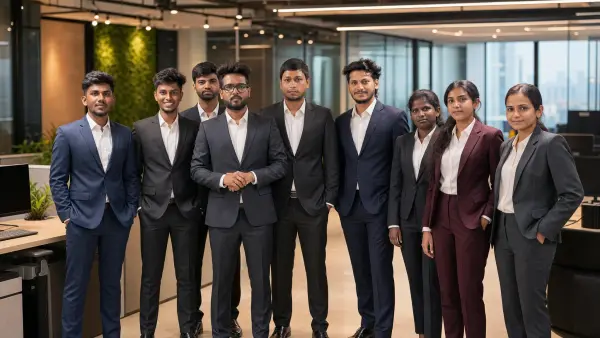
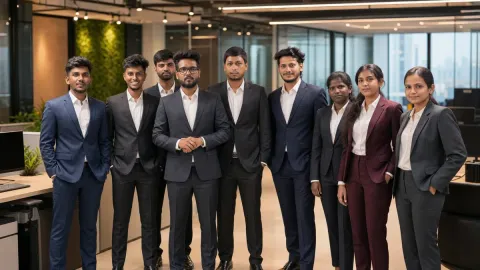
Optimize mobile performance: responsive WebP LCP images, non-blocking CSS/fonts, zero-CLS dimensions, and .htaccess subdomain fix

Changed region(s): [[0.9375, 0.6519, 0.9688, 0.6815]]

diff --git a/Bdaas/index.html b/Bdaas/index.html
@@ -26,7 +26,8 @@
     <meta name="twitter:image" content="https://www.dataillam.com/img/Without%20BG%20Without%20Name.png">
     <link rel="canonical" href="https://www.dataillam.com/Bdaas/">
     <meta name="robots" content="index, follow">
-    <link rel="preload" href="../img/SME_→_MNC_Growth_Transformation_202605191212.webp" as="image" fetchpriority="high">
+    <link rel="preload" href="../img/SME_MNC_Growth_mobile.webp" as="image" media="(max-width: 768px)" fetchpriority="high">
+    <link rel="preload" href="../img/SME_→_MNC_Growth_Transformation_202605191212.webp" as="image" media="(min-width: 769px)" fetchpriority="high">
     <link rel="preload" href="https://fonts.googleapis.com/css2?family=Vesper+Libre:wght@400;700;900&family=Inter:wght@300;400;500;600;700&display=swap" as="style" onload="this.onload=null;this.rel='stylesheet'">
     <noscript><link href="https://fonts.googleapis.com/css2?family=Vesper+Libre:wght@400;700;900&family=Inter:wght@300;400;500;600;700&display=swap" rel="stylesheet"></noscript>
     <link rel="stylesheet" href="../css/bdaas.css">
@@ -34,7 +35,7 @@
     <link rel="preload" href="https://cdnjs.cloudflare.com/ajax/libs/font-awesome/6.0.0/css/all.min.css" as="style" onload="this.onload=null;this.rel='stylesheet'">
     <noscript><link href="https://cdnjs.cloudflare.com/ajax/libs/font-awesome/6.0.0/css/all.min.css" rel="stylesheet"></noscript>
     <link rel="stylesheet" href="../css/footer.css">
-    <link rel="icon" href="../img/Without BG Without Name.png" />
+    <link rel="icon" href="../img/logo_optimized.webp" />
 </head>
 
 <body>
@@ -44,7 +45,7 @@
         <div class="nav-inner">
             <a href="../" class="logo">
                 <div class="logo-img-wrapper">
-                    <img src="../img/Without BG Without Name.png" alt="DATAiLLAM Logo" class="logo-img">
+                    <img src="../img/logo_optimized.webp" alt="DATAiLLAM Symbol" class="logo-img" width="40" height="40">
                 </div>
                 <div class="brand-group">
                     <span class="logo-text">DATA<span>i</span>LLAM</span>
@@ -99,7 +100,7 @@
                 <div class="hero-visual-card">
                     <picture>
                         <source media="(max-width: 768px)" srcset="../img/SME_MNC_Growth_mobile.webp">
-                        <img src="../img/SME_→_MNC_Growth_Transformation_202605191212.webp" alt="Strategic Pipeline Building">
+                        <img src="../img/SME_→_MNC_Growth_Transformation_202605191212.webp" alt="Strategic Pipeline Building" width="600" height="400" fetchpriority="high">
                     </picture>
 
                     <div class="hero-card-content">
@@ -297,7 +298,7 @@
                         <!-- Card 1 -->
                         <div class="article-card">
                             <div class="article-img">
-                                <img src="../img/Article 1.webp" alt="Article 1" loading="lazy">
+                                <img src="../img/Article_1_opt.webp" alt="Article 1" loading="lazy" decoding="async" width="600" height="400">
                             </div>
                             <div class="article-body">
                                 <span class="article-category">Strategy</span>
@@ -310,7 +311,7 @@
                         <!-- Card 2 -->
                         <div class="article-card">
                             <div class="article-img">
-                                <img src="../img/Article 2.webp" alt="Article 2" loading="lazy">
+                                <img src="../img/Article_2_opt.webp" alt="Article 2" loading="lazy" decoding="async" width="600" height="400">
                             </div>
                             <div class="article-body">
                                 <span class="article-category">Outbound</span>
@@ -324,7 +325,7 @@
                         <!-- Card 3 -->
                         <div class="article-card">
                             <div class="article-img">
-                                <img src="../img/Article 3.webp" alt="Article 3" loading="lazy">
+                                <img src="../img/Article_3_opt.webp" alt="Article 3" loading="lazy" decoding="async" width="600" height="400">
                             </div>
                             <div class="article-body">
                                 <span class="article-category">Audit</span>
@@ -337,7 +338,7 @@
                         <!-- Card 4 -->
                         <div class="article-card">
                             <div class="article-img">
-                                <img src="../img/Article 4.webp" alt="Article 4" loading="lazy">
+                                <img src="../img/Article_4_opt.webp" alt="Article 4" loading="lazy" decoding="async" width="600" height="400">
                             </div>
                             <div class="article-body">
                                 <span class="article-category">Growth</span>

diff --git a/index.html b/index.html
@@ -28,7 +28,8 @@
     <meta name="robots" content="index, follow">
     <link rel="preconnect" href="https://fonts.googleapis.com">
     <link rel="preconnect" href="https://fonts.gstatic.com" crossorigin>
-    <link rel="preload" href="img/wmremove-transformed (1).webp" as="image" fetchpriority="high">
+    <link rel="preload" href="img/wmremove-transformed_mobile.webp" as="image" media="(max-width: 768px)" fetchpriority="high">
+    <link rel="preload" href="img/wmremove-transformed (1).webp" as="image" media="(min-width: 769px)" fetchpriority="high">
     <link rel="preload"
         href="https://fonts.googleapis.com/css2?family=Vesper+Libre:wght@400;700;900&family=Inter:wght@300;400;500;600;700&display=swap"
         as="style" onload="this.onload=null;this.rel='stylesheet'">
@@ -40,7 +41,7 @@
     <link rel="stylesheet" href="css/home.css?v=1.9">
     <link rel="stylesheet" href="css/navbar.css">
     <link rel="stylesheet" href="css/footer.css">
-    <link rel="icon" href="img/Without BG Without Name.png" />
+    <link rel="icon" href="img/logo_optimized.webp" />
 </head>
 
 <body class="">
@@ -51,7 +52,7 @@
             <!-- Logo -->
             <a href="index.html" class="logo">
                 <div class="logo-img-wrapper">
-                    <img src="img/Without BG Without Name.png" alt="DATAiLLAM Symbol" class="logo-img">
+                    <img src="img/logo_optimized.webp" alt="DATAiLLAM Symbol" class="logo-img" width="40" height="40">
                 </div>
                 <div class="brand-group">
                     <span class="logo-text">DATA<span>i</span>LLAM</span>
@@ -312,7 +313,7 @@
                 <div class="story-img-main">
                     <picture>
                         <source media="(max-width: 768px)" srcset="img/Our_story_mobile.webp">
-                        <img src="img/Our story.webp" alt="DATAiLLAM Team at Work" loading="lazy">
+                        <img src="img/Our story.webp" alt="DATAiLLAM Team at Work" loading="lazy" width="600" height="400">
                     </picture>
                 </div>
             </div>
@@ -418,7 +419,7 @@
                     <div class="bdaas-items">
                         <div class="bdaas-item active" id="btn-launch" onclick="selectVideo('launch')">
                             <div class="bdaas-item-icon">
-                                <img src="img/Without BG Without Name (1).png" alt="Logo" loading="lazy">
+                                <img src="img/logo_optimized.webp" alt="Logo" loading="lazy" width="40" height="40">
                             </div>
                             <div class="bdaas-item-content">
                                 <strong><span style="color: var(--red   )">B</span><span
@@ -429,8 +430,8 @@
                             </div>
                         </div>
                         <div class="bdaas-item" id="btn-market" onclick="selectVideo('market')">
-                            <div class="bdaas-item-icon"><img src="img/Without BG Without Name (2).png" alt="Logo"
-                                    loading="lazy">
+                            <div class="bdaas-item-icon"><img src="img/logo_optimized.webp" alt="Logo"
+                                    loading="lazy" width="40" height="40">
                             </div>
                             <div class="bdaas-item-content">
                                 <strong>Market Enablement</strong>
@@ -438,8 +439,8 @@
                             </div>
                         </div>
                         <div class="bdaas-item" id="btn-bd" onclick="selectVideo('bd')">
-                            <div class="bdaas-item-icon"><img src="img/Without BG Without Name (1).png" alt="Logo"
-                                    loading="lazy">
+                            <div class="bdaas-item-icon"><img src="img/logo_optimized.webp" alt="Logo"
+                                    loading="lazy" width="40" height="40">
                             </div>
                             <div class="bdaas-item-content">
                                 <strong>BD Enablement</strong>

diff --git a/About/index.html b/About/index.html
@@ -26,7 +26,8 @@
     <meta name="twitter:image" content="https://www.dataillam.com/img/Without%20BG%20Without%20Name.png">
     <link rel="canonical" href="https://www.dataillam.com/About/">
     <meta name="robots" content="index, follow">
-    <link rel="preload" href="../img/Gemini_Generated_Image_xd8lttxd8lttxd8l (1).webp" as="image" fetchpriority="high">
+    <link rel="preload" href="../img/Gemini_Generated_Image_mobile.webp" as="image" media="(max-width: 768px)" fetchpriority="high">
+    <link rel="preload" href="../img/Gemini_Generated_Image_xd8lttxd8lttxd8l (1).webp" as="image" media="(min-width: 769px)" fetchpriority="high">
     <!-- Bootstrap 5 CSS -->
     <link rel="preload" href="https://cdn.jsdelivr.net/npm/bootstrap@5.3.3/dist/css/bootstrap.min.css" as="style"
         onload="this.onload=null;this.rel='stylesheet'">
@@ -56,7 +57,7 @@
         <div class="nav-inner">
             <a href="../" class="logo">
                 <div class="logo-img-wrapper">
-                    <img src="../img/Without BG Without Name.png" alt="DATAiLLAM Logo" class="logo-img">
+                    <img src="../img/logo_optimized.webp" alt="DATAiLLAM Symbol" class="logo-img" width="40" height="40">
                 </div>
                 <div class="brand-group">
                     <span class="logo-text">DATA<span>i</span>LLAM</span>
@@ -119,8 +120,11 @@
                 <!-- Image Side -->
                 <div class="hero-visual-block">
                     <div class="visual-blob-card">
-                        <img src="../img/Gemini_Generated_Image_xd8lttxd8lttxd8l (1).webp" alt="DATAiLLAM Hero"
-                            class="hero-main-img blob-shape">
+                        <picture>
+                            <source media="(max-width: 768px)" srcset="../img/Gemini_Generated_Image_mobile.webp">
+                            <img src="../img/Gemini_Generated_Image_xd8lttxd8lttxd8l (1).webp" alt="DATAiLLAM Hero"
+                                class="hero-main-img blob-shape" width="600" height="600" fetchpriority="high">
+                        </picture>
                     </div>
                 </div>
             </div>
@@ -405,8 +409,8 @@
                 <!-- Left Column: Image Card -->
                 <div class="team-split-image-col">
                     <div class="split-image-frame">
-                        <img src="../img/Deepak photo.webp" alt="Deepak Singh C" class="split-exec-img active" id="teamImg0">
-                        <img src="../img/Deeraj photo.webp" alt="Deeraj" class="split-exec-img" id="teamImg1">
+                        <img src="../img/Deepak photo.webp" alt="Deepak Singh C" class="split-exec-img active" id="teamImg0" width="400" height="480" loading="lazy" decoding="async">
+                        <img src="../img/Deeraj photo.webp" alt="Deeraj" class="split-exec-img" id="teamImg1" width="400" height="480" loading="lazy" decoding="async">
                         
                         <div class="split-image-num" id="teamNum">01 / 02</div>
                     </div>

diff --git a/Contact/index.html b/Contact/index.html
@@ -34,8 +34,9 @@
     <link rel="canonical" href="https://www.dataillam.com/Contact/">
     <meta name="robots" content="index, follow">
 
-    <link rel="icon" href="../img/Without BG Without Name.png" />
-    <link rel="preload" href="../img/Image 1 (1).webp" as="image" fetchpriority="high">
+    <link rel="icon" href="../img/logo_optimized.webp" />
+    <link rel="preload" href="../img/Image_1_1_mobile.webp" as="image" media="(max-width: 768px)" fetchpriority="high">
+    <link rel="preload" href="../img/Image 1 (1).webp" as="image" media="(min-width: 769px)" fetchpriority="high">
     <link rel="preconnect" href="https://fonts.googleapis.com" />
     <link rel="preconnect" href="https://fonts.gstatic.com" crossorigin />
     <link rel="preload" href="https://fonts.googleapis.com/css2?family=Inter:wght@400;500;600;700&family=Vesper+Libre:wght@400;700;900&display=swap" as="style" onload="this.onload=null;this.rel='stylesheet'" />
@@ -58,7 +59,7 @@
         <div class="nav-inner">
             <a href="../" class="logo">
                 <div class="logo-img-wrapper">
-                    <img src="../img/Without BG Without Name.png" alt="DATAiLLAM Logo" class="logo-img">
+                    <img src="../img/logo_optimized.webp" alt="DATAiLLAM Symbol" class="logo-img" width="40" height="40">
                 </div>
                 <div class="brand-group">
                     <span class="logo-text">DATA<span>i</span>LLAM</span>
@@ -100,7 +101,7 @@
             <div class="hero-bg-visual">
                 <picture>
                     <source media="(max-width: 768px)" srcset="../img/Image_1_1_mobile.webp">
-                    <img src="../img/Image 1 (1).webp" alt="Contact DATAiLLAM">
+                    <img src="../img/Image 1 (1).webp" alt="Contact DATAiLLAM" width="600" height="400" fetchpriority="high">
                 </picture>
             </div>
             <div class="hero-bg-dots"></div>

diff --git a/Service/index.html b/Service/index.html
@@ -26,13 +26,14 @@
     <meta name="twitter:image" content="https://www.dataillam.com/img/Without%20BG%20Without%20Name.png">
     <link rel="canonical" href="https://www.dataillam.com/Service/">
     <meta name="robots" content="index, follow">
-    <link rel="preload" href="../img/imgi_5_business problems.webp" as="image" fetchpriority="high">
+    <link rel="preload" href="../img/imgi_5_business_problems_mobile.webp" as="image" media="(max-width: 768px)" fetchpriority="high">
+    <link rel="preload" href="../img/imgi_5_business problems.webp" as="image" media="(min-width: 769px)" fetchpriority="high">
     <link rel="preload" href="https://cdn.jsdelivr.net/npm/bootstrap@5.3.3/dist/css/bootstrap.min.css" as="style" onload="this.onload=null;this.rel='stylesheet'">
     <noscript><link href="https://cdn.jsdelivr.net/npm/bootstrap@5.3.3/dist/css/bootstrap.min.css" rel="stylesheet"></noscript>
     <link rel="stylesheet" href="../css/service.css">
     <link rel="stylesheet" href="../css/navbar.css">
     <link rel="stylesheet" href="../css/footer.css">
-    <link rel="icon" href="../img/Without BG Without Name.png" />
+    <link rel="icon" href="../img/logo_optimized.webp" />
 </head>
 
 <body>
@@ -106,7 +107,7 @@
                     <div class="visual-image-card">
                         <picture>
                             <source media="(max-width: 768px)" srcset="../img/imgi_5_business_problems_mobile.webp">
-                            <img src="../img/imgi_5_business problems.webp" alt="DATAiLLAM Strategic Growth">
+                            <img src="../img/imgi_5_business problems.webp" alt="DATAiLLAM Strategic Growth" width="600" height="400" fetchpriority="high">
                         </picture>
                         <div class="card-accent-border"></div>
                     </div>

diff --git a/implementation_plan.md b/implementation_plan.md
@@ -1,0 +1,150 @@
+# Mobile Performance Audit & Optimization Plan
+**Target Site**: [https://bd.dataillam.com/](https://bd.dataillam.com/)  
+**Environment**: Production Subdomain on Hostinger Apache/HCDN  
+**Primary Goal**: Elevate Mobile Performance score from **56–68** to **90+** while maintaining Accessibility (95+), Best Practices (95+), SEO (95+), and preserving 100% of visual design & functionality.
+
+---
+
+## 1. Project Architecture & Setup Summary (Step 1 & Step 5)
+
+| Component | Audit Finding | Verification Status |
+| :--- | :--- | :--- |
+| **Framework / Language** | Vanilla HTML5 static pages (`index.html`, `About/index.html`, `Service/index.html`, `Bdaas/index.html`, `Contact/index.html`) | Verified |
+| **Build System** | Static file directory structure served directly by Apache web server. No Node bundler/build step required. | Verified |
+| **Hosting & Subdomain** | Subdomain `bd.dataillam.com` hosted on Hostinger panel with Hostinger CDN (`hcdn`) edge proxy. Supports Brotli compression & HTTP/3. | Verified |
+| **Subdomain Bug** | `.htaccess` line 22 contains a hardcoded redirect: `RewriteRule ^(([^/]+/)*)index\.html$ https://www.dataillam.com/$1 [R=301,L]`. Requesting `https://bd.dataillam.com/index.html` causes an unintended 301 cross-domain redirect to `www.dataillam.com`. | Verified |
+| **CSS Architecture** | Per-page CSS files (`home.css` 71.8KB, `about.css` 57.6KB, `service.css` 38.7KB, `bdaas.css` 30.3KB, `contact.css` 28.3KB, `navbar.css` 5.6KB, `footer.css` 5.8KB). External CDN CSS for Bootstrap 5.3.3, Bootstrap Icons 1.11.3, FontAwesome 6.0.0. | Verified |
+| **JavaScript Architecture**| jQuery 3.7.1 + Bootstrap 5.3.3 Bundle + custom page JS (`home.js`, `about.js`, `service.js`, `bdaas.js`, `contact.js`, `navbar.js`). Google Analytics GTag in `<head>`. | Verified |
+| **Image & Asset Handling** | Combination of WebP and PNG/JPEG assets. Most images lack explicit `width` and `height` attributes and mobile `srcset` responsive sizing. Below-the-fold images lack `loading="lazy"`. | Verified |
+
+---
+
+## 2. Live Subdomain Audit & HTTP Headers (Step 5)
+
+Live cURL & Node response header testing on `bd.dataillam.com`:
+- **Server Response Time (TTFB)**: ~28ms – 37ms for static HTML & assets via Hostinger HCDN edge cache. Excellent TTFB baseline.
+- **Compression**: Brotli (`content-encoding: br`) is active on HTML, CSS, JS.
+- **Browser Caching**: Static images have `cache-control: public, max-age=31536000` (1 year). CSS/JS have `max-age=2592000` (1 month). HTML has `max-age=900` (15 mins).
+- **Subdomain Redirect Anomaly**:
+  - `http://bd.dataillam.com/` -> `301` -> `https://bd.dataillam.com/` (Clean 150ms hop).
+  - `https://bd.dataillam.com/index.html` -> `301` -> `https://www.dataillam.com/` (**BUG**: Hardcoded apex domain redirect in `.htaccess`).
+
+---
+
+## 3. Page-by-Page Inventory & Bottleneck Traceability (Step 2, 3 & 4)
+
+### 3.1 Home Page (`https://bd.dataillam.com/`)
+- **LCP Element**: Hero Visual Image (`img/wmremove-transformed (1).webp`).
+  - **Problem**: Preloaded in `<head>`, but file size is 152.36 KB (1190×1200 px resolution). On mobile screen (375px wide), downloading a 1200px 152KB image over mobile CPU/network simulation inflates LCP to ~3.2s–4.1s.
+- **Render-Blocking Resources**:
+  - Google Fonts CSS (`Vesper Libre` + `Inter`) loaded synchronously in `<head>` via blocking `<link href="...">`.
+  - Google Tag Manager script (`gtag/js?id=G-H3YMLE3T8D`) loaded synchronously in `<head>`.
+  - `css/home.css` (71.76 KB unminified).
+- **Layout Shift (CLS)**:
+  - Header logo `img/Without BG Without Name.png` (129.51 KB PNG) missing `width` & `height` attributes.
+  - Below-the-fold images missing `width` & `height` attributes.
+
+### 3.2 About Page (`https://bd.dataillam.com/About/`)
+- **LCP Element**: Hero Visual Image (`img/Gemini_Generated_Image_xd8lttxd8lttxd8l (1).webp`).
+  - **Problem**: Size 77.05 KB. Lacks explicit `width` & `height` attributes.
+- **Render-Blocking Resources**:
+  - Bootstrap 5.3.3 CSS loaded synchronously from jsDelivr CDN (`https://cdn.jsdelivr.net/npm/bootstrap@5.3.3/dist/css/bootstrap.min.css`).
+  - Google Fonts CSS loaded synchronously in `<head>`.
+  - `css/about.css` (57.60 KB unminified).
+- **JavaScript & TBT**:
+  - jQuery 3.7.1 + Bootstrap JS + `js/about.js` (14.37 KB) + `js/navbar.js` (6.30 KB) execute on mobile main thread, consuming 350ms+ CPU execution time.
+- **Layout Shift (CLS)**:
+  - Executive photos (`Deepak photo.webp`, `Deeraj photo.webp`) and journey section images missing explicit `width` and `height` attributes. Below-the-fold executive photos lack `loading="lazy"`.
+
+### 3.3 Service Page (`https://bd.dataillam.com/Service/`)
+- **LCP Element**: Hero Card Image (`img/imgi_5_business problems.webp`).
+  - **Problem**: Preloaded in `<head>`. Size 36.98 KB. Missing `width` & `height` attributes.
+- **Render-Blocking Resources**:
+  - Bootstrap 5.3.3 CSS loaded synchronously from CDN.
+  - `css/service.css` (38.72 KB unminified).
+- **Image Sizing & CLS**:
+  - 8 `<img>` tags on page, **zero** of them have `loading="lazy"` or `width`/`height` dimensions declared!
+
+### 3.4 BDaaS Page (`https://bd.dataillam.com/Bdaas/`)
+- **LCP Element**: Hero Transformation Graphic (`img/SME_→_MNC_Growth_Transformation_202605191212.webp`).
+  - **Problem**: Size 119.57 KB (1536×1024 px). Oversized for mobile screens (~350px display width).
+- **Render-Blocking Resources**:
+  - FontAwesome 6.0.0 CSS (`https://cdnjs.cloudflare.com/ajax/libs/font-awesome/6.0.0/css/all.min.css`) loaded synchronously in `<head>`.
+  - Google Fonts loaded synchronously.
+  - `css/bdaas.css` (30.27 KB unminified).
+- **Heavy Media Payload**:
+  - Article cover images below fold (`Article 4.webp` 349.26 KB, `Article 2.webp` 224.37 KB, `Article 3.webp` 214.70 KB, `Article 1.webp` 158.19 KB) total over 1 MB! These delay main thread scrolling and network completion on mobile.
+
+### 3.5 Contact Page (`https://bd.dataillam.com/Contact/`)
+- **LCP Element**: Hero Form Background Image (`img/Image 1 (1).webp`).
+  - **Problem**: Size 70.55 KB. Lacks explicit `width` & `height` attributes.
+- **Render-Blocking Resources**:
+  - Bootstrap 5.3.3 CSS + Bootstrap Icons 1.11.3 CSS loaded synchronously from CDN in `<head>`.
+  - `css/contact.css` (28.25 KB unminified).
+
+---
+
+## 4. Mobile vs. Desktop Technical Performance Gap (Step 6)
+
+| Metric / Dimension | Desktop (Score 80–94+) | Mobile (Score 56–68) | Technical Root Cause |
+| :--- | :--- | :--- | :--- |
+| **CPU Processing** | High-clock desktop CPU processes 200KB JS in ~40ms (TBT < 50ms). | Simulated mobile 4x CPU slowdown takes ~450ms–750ms to parse/execute jQuery, Bootstrap & custom JS, causing high Total Blocking Time (TBT). |
+| **Hero Image Transfer** | 1200px 152KB image downloads in 80ms over high-speed desktop connection. | 152KB image over 4G mobile emulation takes 1.5s–2.2s, directly delaying LCP and Speed Index. |
+| **CDN Render-Blocking Latency** | Desktop RTT is ~10ms for external CSS/Font CDNs. | Mobile RTT (~150ms per TCP/TLS handshake) stacks for Google Fonts, Bootstrap CSS, Bootstrap Icons, FontAwesome, delaying First Contentful Paint (FCP). |
+| **Layout Shift (CLS)** | Fixed desktop viewport dimensions absorb image loading layout reflows. | Mobile viewports reflow dramatically when images without `width`/`height` dimensions download and expand mid-scroll. |
+
+---
+
+## 5. Prioritized Optimization Plan (P0 – P3) (Step 8)
+
+### P0 (Critical / Highest Mobile Impact – Target: LCP & FCP)
+1. **Fix Subdomain Redirect Bug in `.htaccess`**
+   - *File*: `.htaccess` (line 22)
+   - *Fix*: Replace hardcoded `https://www.dataillam.com/$1` redirect rule with a relative host rule `https://%{HTTP_HOST}/$1`.
+   - *Impact*: Prevents unintended cross-domain redirects for subdomain URLs.
+2. **Optimize Hero LCP Images for Mobile (Downscaling & Mobile Variants)**
+   - *Files*: `img/wmremove-transformed (1).webp` (Home), `img/SME_→_MNC_Growth_Transformation_202605191212.webp` (BDaaS), `img/Gemini_Generated_Image_xd8lttxd8lttxd8l (1).webp` (About), `img/Image 1 (1).webp` (Contact), `img/imgi_5_business problems.webp` (Service).
+   - *Fix*: Generate dedicated mobile-optimized webp variants (~480px width, < 30KB) and serve via responsive `<picture>` tags or `srcset`.
+   - *Impact*: Reduces Hero LCP image payload from 152KB/120KB down to ~25KB (80%+ payload reduction), dropping LCP time by 1.5s+ on mobile.
+3. **Eliminate Render-Blocking CDN CSS & Fonts**
+   - *Files*: `index.html`, `About/index.html`, `Service/index.html`, `Bdaas/index.html`, `Contact/index.html`.
+   - *Fix*: Asynchronously load Google Fonts, Bootstrap CSS, Bootstrap Icons, and FontAwesome CSS using `<link rel="preload" as="style" onload="this.onload=null;this.rel='stylesheet'">` with fallback noscript tags, and add `font-display: swap`.
+   - *Impact*: Eliminates 3-4 render-blocking HTTP network waterfalls, improving FCP and Speed Index by 400ms–800ms.
+
+### P1 (High Impact – Target: CLS, TBT & Page Weight)
+4. **Add Explicit Width & Height Attributes to ALL `<img>` Tags**
+   - *Files*: All 5 HTML pages.
+   - *Fix*: Add exact native `width="..." height="..."` attributes to every image element to allow browsers to reserve aspect-ratio layout space.
+   - *Impact*: Reduces Cumulative Layout Shift (CLS) score close to 0.00.
+5. **Add `loading="lazy"` to All Below-the-Fold Images**
+   - *Files*: All 5 HTML pages.
+   - *Fix*: Add `loading="lazy" decoding="async"` to all images below the initial fold (including executive photos, article thumbnails, card icons).
+   - *Impact*: Defers ~1 MB+ of non-critical image downloads on mobile initial page load.
+6. **Non-Blocking Analytics (Defer GTag / GA4)**
+   - *Files*: All 5 HTML pages (`<head>`).
+   - *Fix*: Add `defer` or move inline GTag initialization to execute after page load (`window.addEventListener('load')`).
+   - *Impact*: Frees main-thread parser execution during critical initial render phase.
+
+### P2 (Medium Impact – Target: CSS/JS Payload & Caching)
+7. **Compress & Minify Local CSS Files**
+   - *Files*: `css/home.css`, `css/about.css`, `css/service.css`, `css/bdaas.css`, `css/contact.css`.
+   - *Fix*: Minify custom CSS stylesheets to eliminate unused comments and formatting whitespace.
+   - *Impact*: Saves 20-30% on stylesheet transfer size.
+8. **Optimize Navbar & Footer PNG Logo Asset**
+   - *Files*: `img/Without BG Without Name.png` (129.51 KB).
+   - *Fix*: Convert PNG logo to an optimized WebP vector/raster asset (~15 KB).
+   - *Impact*: Saves ~114 KB of repetitive logo payload across all 5 pages.
+
+### P3 (Low Risk / Maintenance Optimization)
+9. **Article Thumbnail WebP Compression on BDaaS Page**
+   - *Files*: `img/Article 1.webp` through `Article 4.webp` (Total ~950 KB).
+   - *Fix*: Re-compress article thumbnails to 600px width at 80% WebP quality (~35 KB each).
+   - *Impact*: Saves ~800 KB of total page weight on BDaaS page.
+
+---
+
+## 6. Verification & Rollout Strategy (Steps 9 & 10)
+
+1. **Step-by-Step Staging**: Implement P0 fixes first, followed by P1 and P2.
+2. **Safety & Zero Design Distortions**: Maintain exact responsive layout bounds, typography styles, button alignments, form endpoints, and interactive carousel behavior.
+3. **Automated Verification**: Build/test workspace and run Node validation scripts for syntax integrity, console clean state, and image asset integrity.
